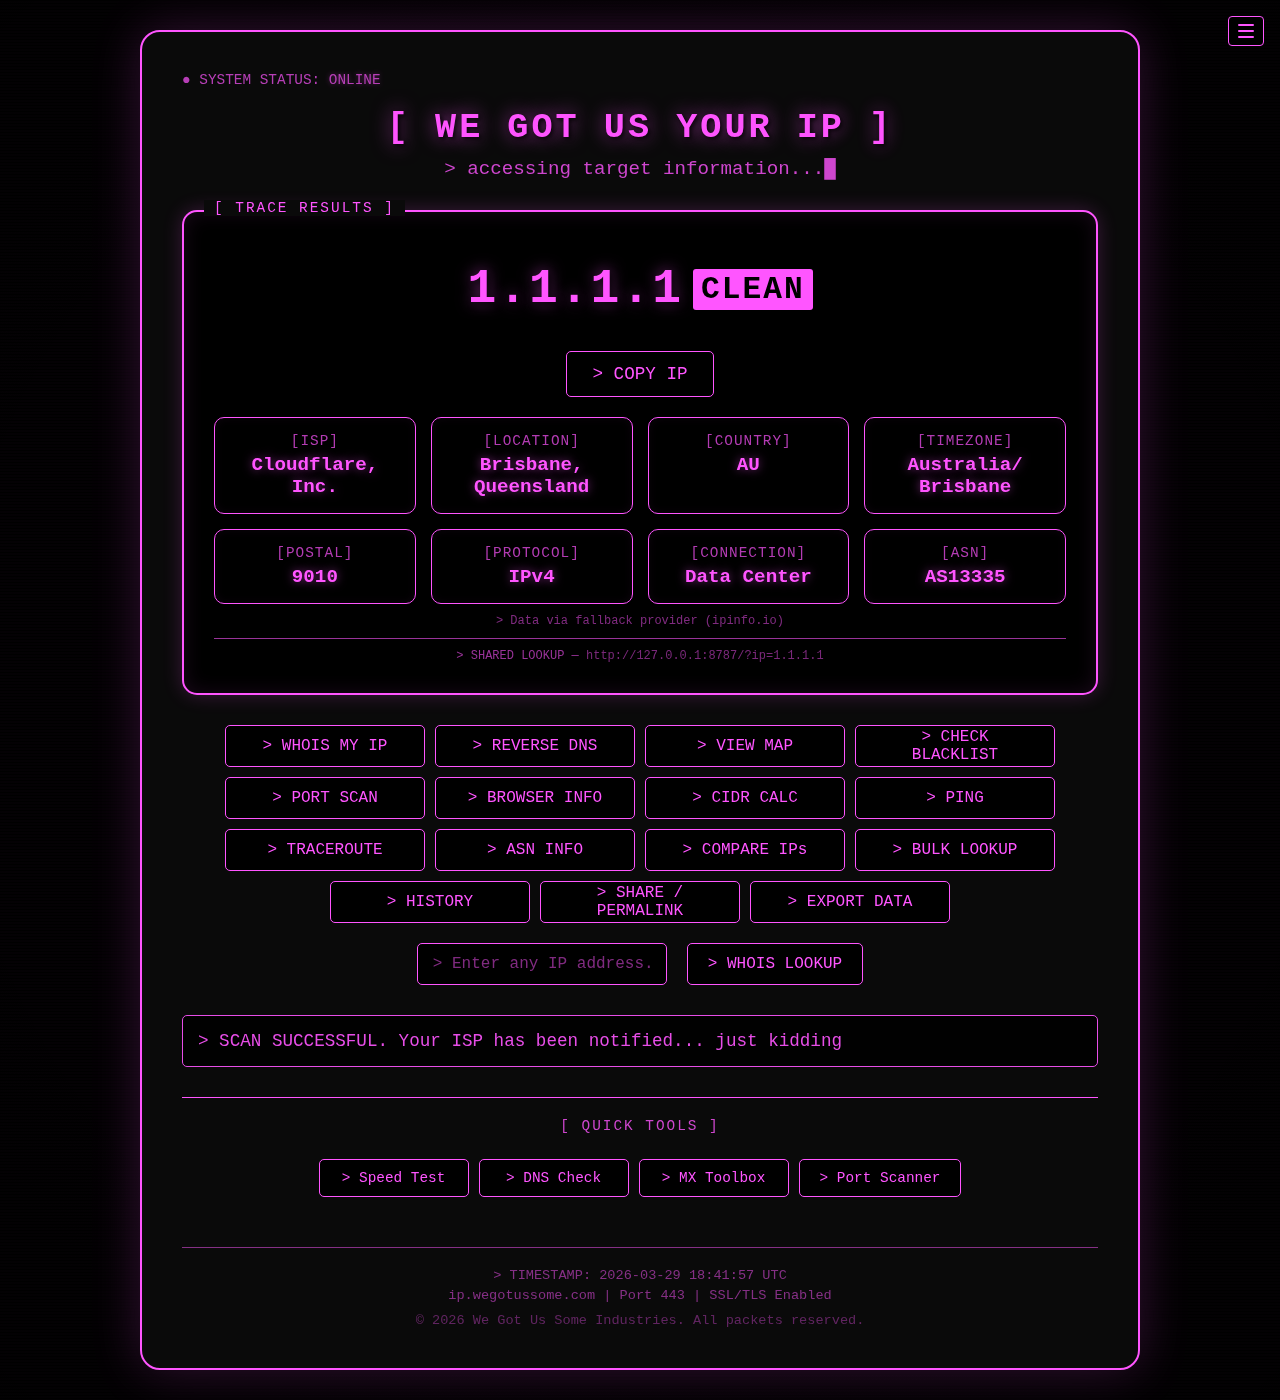
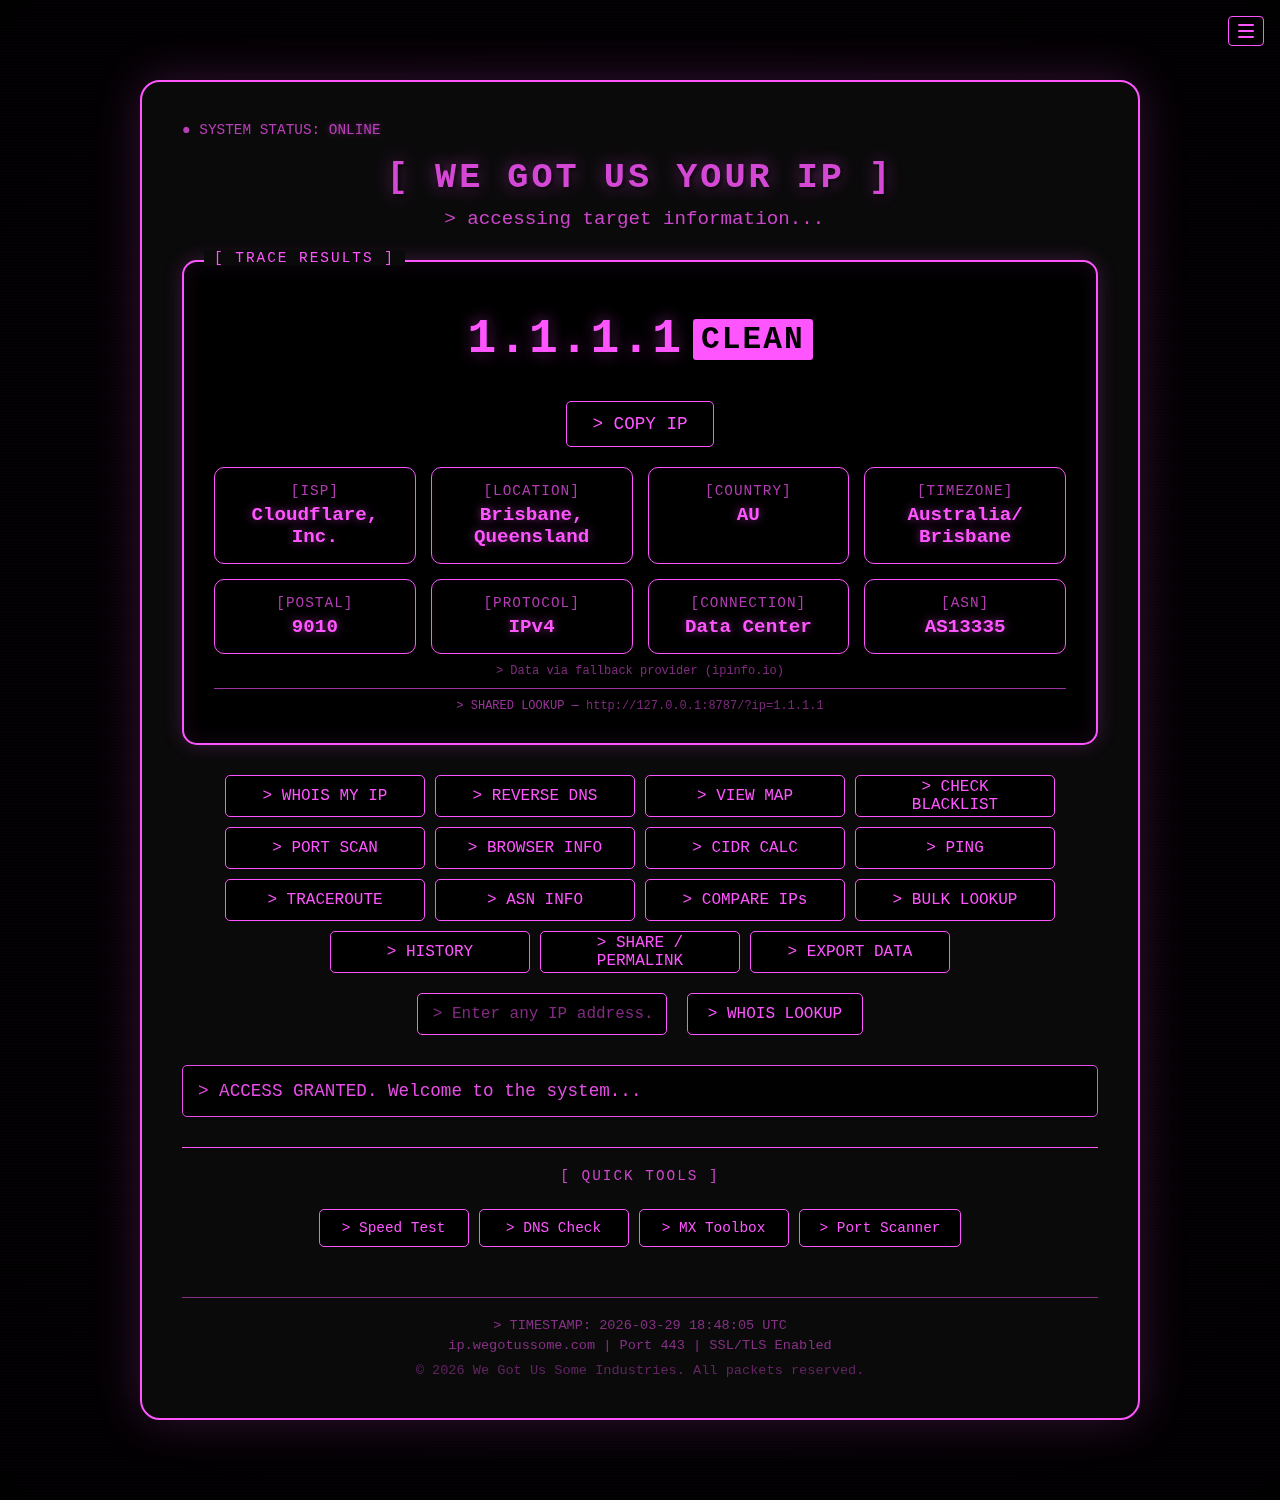
Sort themes alphabetically, increase screenshot height to 1500px
- themes/index.json: fix ordering (crt-green before crt-magenta,
  fusion after dracula-dark)
- screenshot_themes.py: viewport height 1400 → 1500
- Regenerate all 25 screenshots and update README gallery

diff --git a/scripts/screenshot_themes.py b/scripts/screenshot_themes.py
@@ -22,7 +22,7 @@ import http.server
 
 # ── Config ────────────────────────────────────────────────────────────────────
 PORT        = 8787
-VIEWPORT    = {"width": 1280, "height": 1400}
+VIEWPORT    = {"width": 1280, "height": 1500}
 DEMO_IP     = "1.1.1.1"   # IP shown in screenshots — change to any public IP
 REPO_ROOT   = os.path.dirname(os.path.dirname(os.path.abspath(__file__)))
 OUT_DIR     = os.path.join(REPO_ROOT, "screenshots")

diff --git a/README.md b/README.md
@@ -15,12 +15,12 @@
 | **Catppuccin Latte** | **Catppuccin Mocha** | **Commodore 64** |
 | <img src="screenshots/crt-amber.png" width="400" alt="crt-amber"> | <img src="screenshots/crt-cga.png" width="400" alt="crt-cga"> | <img src="screenshots/crt-cyan.png" width="400" alt="crt-cyan"> |
 | **CRT-Amber** | **CRT-CGA** | **CRT-Cyan** |
-| <img src="screenshots/crt-magenta.png" width="400" alt="crt-magenta"> | <img src="screenshots/crt-green.png" width="400" alt="crt-green"> | <img src="screenshots/crt-vortex.png" width="400" alt="crt-vortex"> |
-| **CRT-Magenta** | **CRT-Green** | **CRT-Vortex** |
-| <img src="screenshots/crt-white.png" width="400" alt="crt-white"> | <img src="screenshots/dracula.png" width="400" alt="dracula"> | <img src="screenshots/fusion.png" width="400" alt="fusion"> |
-| **CRT-White** | **Dracula** | **Fusion** |
-| <img src="screenshots/dracula-dark.png" width="400" alt="dracula-dark"> | <img src="screenshots/github-dark.png" width="400" alt="github-dark"> | <img src="screenshots/github-light.png" width="400" alt="github-light"> |
-| **Dracula Dark** | **GitHub Dark** | **GitHub Light** |
+| <img src="screenshots/crt-green.png" width="400" alt="crt-green"> | <img src="screenshots/crt-magenta.png" width="400" alt="crt-magenta"> | <img src="screenshots/crt-vortex.png" width="400" alt="crt-vortex"> |
+| **CRT-Green** | **CRT-Magenta** | **CRT-Vortex** |
+| <img src="screenshots/crt-white.png" width="400" alt="crt-white"> | <img src="screenshots/dracula.png" width="400" alt="dracula"> | <img src="screenshots/dracula-dark.png" width="400" alt="dracula-dark"> |
+| **CRT-White** | **Dracula** | **Dracula Dark** |
+| <img src="screenshots/fusion.png" width="400" alt="fusion"> | <img src="screenshots/github-dark.png" width="400" alt="github-dark"> | <img src="screenshots/github-light.png" width="400" alt="github-light"> |
+| **Fusion** | **GitHub Dark** | **GitHub Light** |
 | <img src="screenshots/gruvbox-dark.png" width="400" alt="gruvbox-dark"> | <img src="screenshots/monokai.png" width="400" alt="monokai"> | <img src="screenshots/nord.png" width="400" alt="nord"> |
 | **Gruvbox Dark** | **Monokai** | **Nord** |
 | <img src="screenshots/one-dark.png" width="400" alt="one-dark"> | <img src="screenshots/solarized-dark.png" width="400" alt="solarized-dark"> | <img src="screenshots/solarized-light.png" width="400" alt="solarized-light"> |
